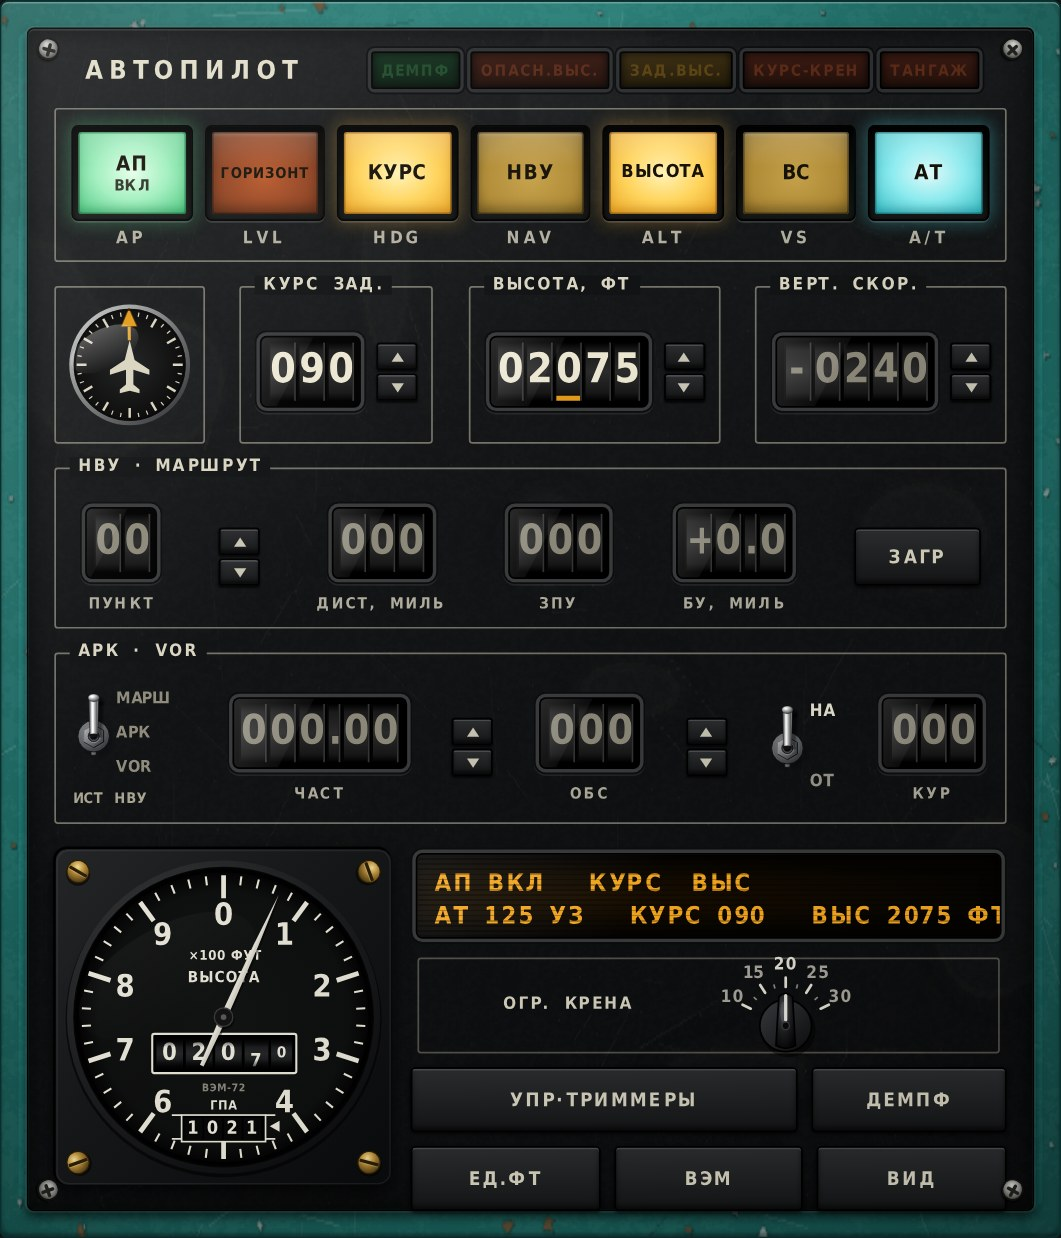
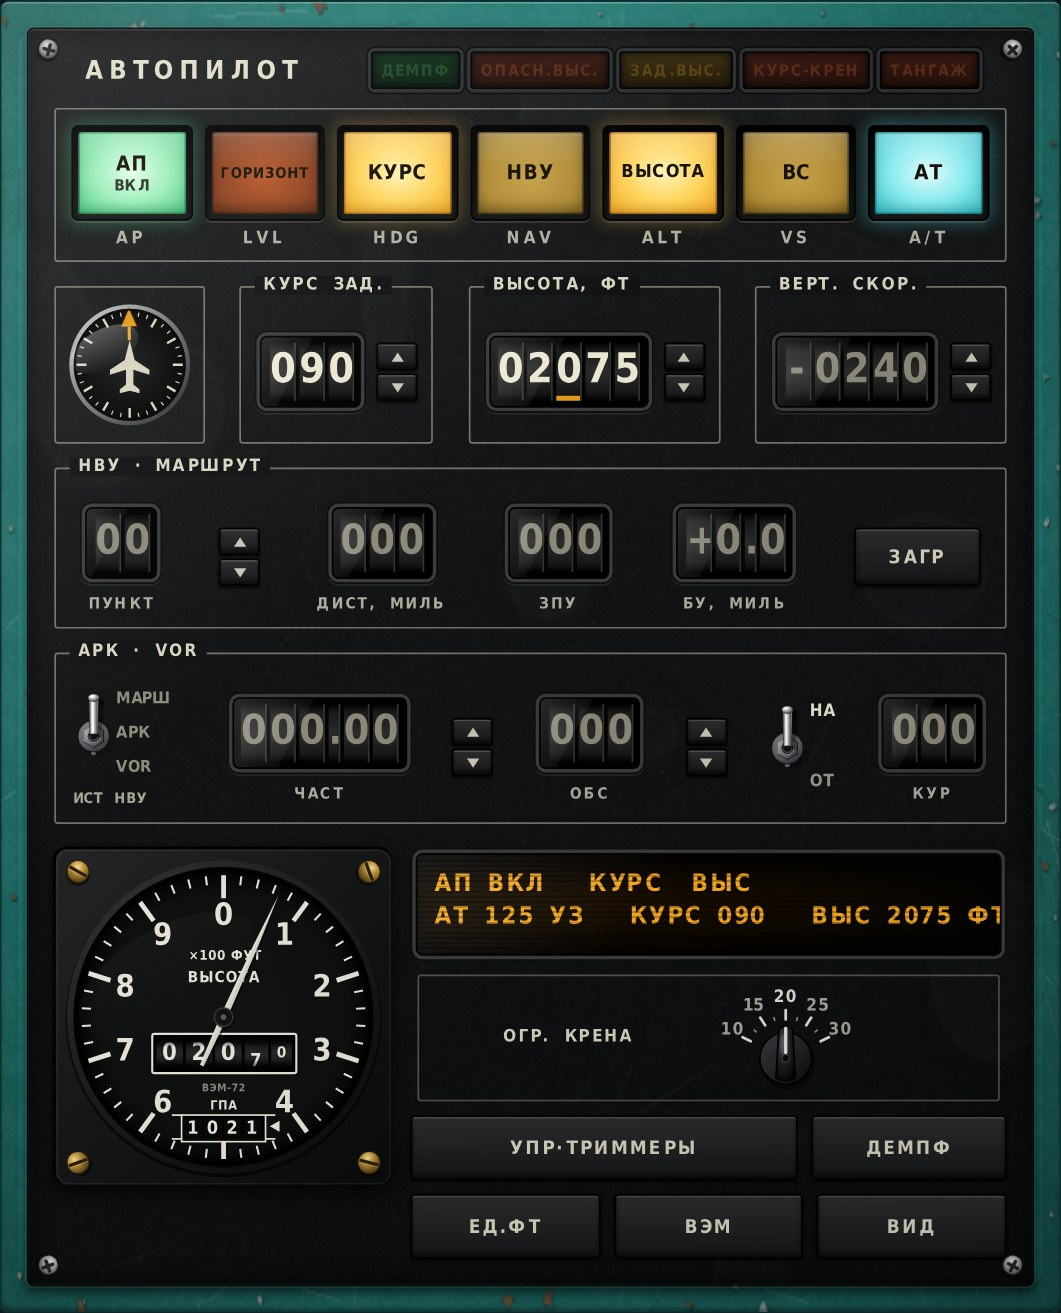
1.18.1: ОГР. КРЕНА miesci sie w ramce (radziecki pulpit)

diff --git a/project/PackageSources/html_ui/InGamePanels/AP28Panel/AP28Panel.js b/project/PackageSources/html_ui/InGamePanels/AP28Panel/AP28Panel.js
@@ -485,7 +485,7 @@ const AP_SKIN_CSS = `
 .sv-bsd{position:absolute;text-align:center;line-height:1;color:#e6e3d6;opacity:.72;white-space:nowrap}
 .sv-bsd.sv-on{opacity:1}
 .sv-bsd .sv-g{margin-right:.5px}
-.sv-bankrow{display:flex;align-items:center;justify-content:center;gap:14px;height:64px;margin:0 4px;
+.sv-bankrow{display:flex;align-items:center;justify-content:center;gap:14px;height:74px;margin:0 4px;box-sizing:border-box;
  border:1px solid rgba(214,210,190,.35);border-radius:2px}
 .sv-bankcap{font-size:10px;color:#d9d5c2;line-height:1.35;text-align:right}
 .sv-bankcap .sv-g{margin-right:1.2px}
@@ -925,8 +925,8 @@ const AP_VEM_CSS = `
 .vem-box{position:relative;flex:none;border-radius:9px}
 .vem-box > .vem{position:absolute;left:0;top:0;transform-origin:0 0}
 .sv-vembot{align-items:flex-start;gap:12px;margin-top:4px}
-.sv-vcol{flex:1;min-width:0;display:flex;flex-direction:column;gap:10px;height:196px}
-.sv-vcol .sv-status{flex:1;margin:4px}
+.sv-vcol{flex:1;min-width:0;display:flex;flex-direction:column;gap:10px;min-height:196px}
+.sv-vcol .sv-status{flex:1;margin:4px;min-height:58px}
 .sv-vbtns{display:flex;gap:8px}
 .sv-vbtns .sv-mini{flex:1 1 0;height:38px;margin:0;font-size:11px}
 .sv-vbtns .sv-mini[data-k="controls"]{flex:2 1 0}
@@ -1156,7 +1156,7 @@ class AP28Panel extends AP28_BASE {
                 }
                 return;
             }
-            this.version = "AP-28 v1.18.0";
+            this.version = "AP-28 v1.18.1";
             this._buildSkin();
             if (this.skinOn) {
                 if (this.skinKind !== "an28") this._initListeners();

diff --git a/src/AP28Panel.js b/src/AP28Panel.js
@@ -485,7 +485,7 @@ const AP_SKIN_CSS = `
 .sv-bsd{position:absolute;text-align:center;line-height:1;color:#e6e3d6;opacity:.72;white-space:nowrap}
 .sv-bsd.sv-on{opacity:1}
 .sv-bsd .sv-g{margin-right:.5px}
-.sv-bankrow{display:flex;align-items:center;justify-content:center;gap:14px;height:64px;margin:0 4px;
+.sv-bankrow{display:flex;align-items:center;justify-content:center;gap:14px;height:74px;margin:0 4px;box-sizing:border-box;
  border:1px solid rgba(214,210,190,.35);border-radius:2px}
 .sv-bankcap{font-size:10px;color:#d9d5c2;line-height:1.35;text-align:right}
 .sv-bankcap .sv-g{margin-right:1.2px}
@@ -925,8 +925,8 @@ const AP_VEM_CSS = `
 .vem-box{position:relative;flex:none;border-radius:9px}
 .vem-box > .vem{position:absolute;left:0;top:0;transform-origin:0 0}
 .sv-vembot{align-items:flex-start;gap:12px;margin-top:4px}
-.sv-vcol{flex:1;min-width:0;display:flex;flex-direction:column;gap:10px;height:196px}
-.sv-vcol .sv-status{flex:1;margin:4px}
+.sv-vcol{flex:1;min-width:0;display:flex;flex-direction:column;gap:10px;min-height:196px}
+.sv-vcol .sv-status{flex:1;margin:4px;min-height:58px}
 .sv-vbtns{display:flex;gap:8px}
 .sv-vbtns .sv-mini{flex:1 1 0;height:38px;margin:0;font-size:11px}
 .sv-vbtns .sv-mini[data-k="controls"]{flex:2 1 0}
@@ -1156,7 +1156,7 @@ class AP28Panel extends AP28_BASE {
                 }
                 return;
             }
-            this.version = "AP-28 v1.18.0";
+            this.version = "AP-28 v1.18.1";
             this._buildSkin();
             if (this.skinOn) {
                 if (this.skinKind !== "an28") this._initListeners();

diff --git a/CHANGELOG.md b/CHANGELOG.md
@@ -8,6 +8,10 @@ Versions follow [Semantic Versioning](https://semver.org/). The ready-to-use pac
 
 ## English
 
+### 1.18.1 – 2026-11-10
+#### Fixed
+- In the Soviet cockpit skin, the ОГР. КРЕНА selector no longer sticks out of its frame. The field is taller, and the panel grows slightly at the bottom.
+
 ### 1.18.0 – 2026-11-10
 #### Added
 - **ОГР. КРЕНА bank limit selector.** A Soviet-style rotary step switch with a black bakelite pointer knob and an engraved scale of 10, 15, 20, 25 and 30°. It sets the maximum bank in turns in every mode: КУРС, НВУ and РАЗВОРОТЫ. Click a number to select it, click the knob to step to the next position, or use the mouse wheel. The display briefly shows `КРЕН 25°`, and the position is remembered.
@@ -150,6 +154,10 @@ Versions follow [Semantic Versioning](https://semver.org/). The ready-to-use pac
 
 ## Polski
 
+### 1.18.1 – 2026-11-10
+#### Naprawiono
+- W wyglądzie radzieckiego pulpitu przełącznik ОГР. КРЕНА nie wychodzi już poza ramkę. Pole jest wyższe, a panel nieco urósł na dole.
+
 ### 1.18.0 – 2026-11-10
 #### Dodano
 - **Przełącznik ОГР. КРЕНА, czyli ograniczenie przechylenia.** Galetowy przełącznik w radzieckim stylu: czarna bakelitowa gałka ze wskaźnikiem i grawerowana skala 10, 15, 20, 25 i 30°. Ustala maksymalny przechył w zakrętach we wszystkich trybach: КУРС, НВУ i РАЗВОРОТЫ. Klik w liczbę wybiera to położenie, klik w gałkę przestawia na następne, działa też kółko myszy. Na wyświetlaczu na chwilę widać `КРЕН 25°`, a ustawienie jest zapamiętywane.
@@ -291,6 +299,10 @@ Versions follow [Semantic Versioning](https://semver.org/). The ready-to-use pac
 ---
 
 ## Русский
+
+### 1.18.1 – 2026-11-10
+#### Исправлено
+- В виде советского пульта переключатель ОГР. КРЕНА больше не выходит за рамку. Поле стало выше, панель немного увеличилась снизу.
 
 ### 1.18.0 – 2026-11-10
 #### Добавлено
